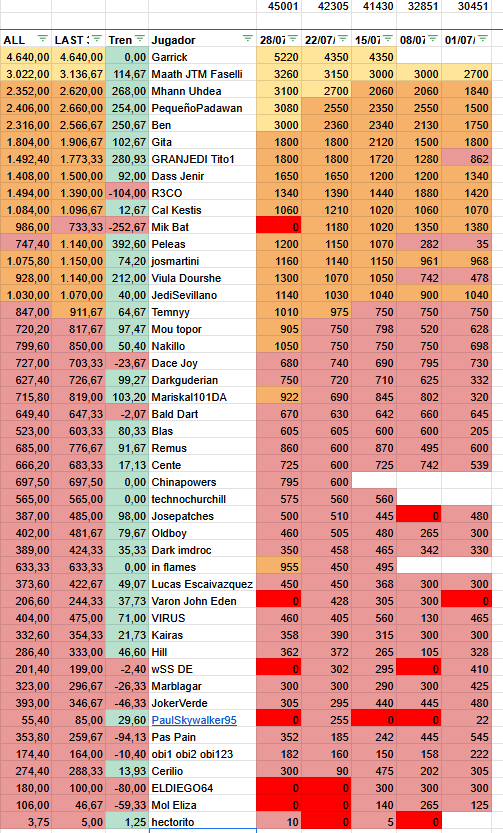
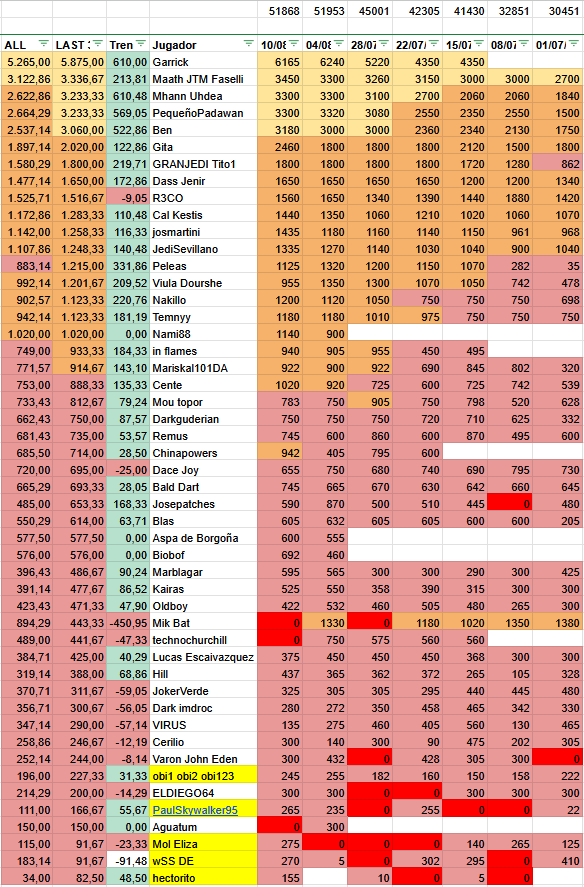
raid y rote - actualización

diff --git a/templo.html b/templo.html
@@ -61,7 +61,7 @@
         </div>
 
         <div id="templo-goals" class="tab-content">
-            <a href="https://swgoh.gg/raids/naboo/naboo/rewards"><img src="img/naboo-reward-box6.png"/></a>
+            <a href="https://swgoh.gg/raids/order66/DIFF01/rewards/"><img src="img/order66-reward-box8.png"/></a>
         </div>
 
         <div id="templo-planning" class="tab-content">
@@ -290,7 +290,7 @@
                 </h3>
                 <div class="squad">
                     <h4>Equipo 1: Gran Moff Tarkin y soldados clon</h4>
-                    <p class="score-expected">Puntos esperados: 1.8M</p>
+                    <p class="score-expected">Puntos esperados: 3.6M</p>
                     <div class="squad-characters-list">
                         <div class="character">
                             <img src="https://game-assets.swgoh.gg/textures/tex.charui_tarkinadmiral.png" alt="Gran Moff Tarkin">
@@ -305,6 +305,19 @@
                                 <img src="https://swgoh.wiki/images/thumb/6/66/Event-Territory_Battle-Rise_of_the_Empire.png/435px-Event-Territory_Battle-Rise_of_the_Empire.png" alt="Alzamiento" data-hover="Pelotón Tatooine">
                             </div>
                         </div>
+                        <div class="character">
+                            <img src="https://game-assets.swgoh.gg/textures/tex.charui_scorch.png" alt="Scorch">
+                            <div class="relic-required">Reliquia 5</div>
+                            <div class="synergy">
+                                <img src="https://game-assets.swgoh.gg/textures/tex.charui_jedimastermacewindu.png" alt="Jedi Master Mace Windu" >
+                            </div>
+                        </div>
+                    </div>
+                </div>
+                <div class="squad">
+                    <h4>Equipo 2: Gran Moff Tarkin y soldados clon</h4>
+                    <p class="score-expected">Puntos esperados: 3.6M</p>
+                    <div class="squad-characters-list">
                         <div class="character">
                             <img src="https://game-assets.swgoh.gg/textures/tex.charui_appo.png" alt="Appo">
                             <div class="relic-required">Reliquia 5</div>
@@ -326,19 +339,53 @@
                                 <img src="https://game-assets.swgoh.gg/textures/tex.charui_jedimastermacewindu.png" alt="Jedi Master Mace Windu" >
                             </div>
                         </div>
-                        <div class="character">
-                            <img src="https://game-assets.swgoh.gg/textures/tex.charui_scorch.png" alt="Scorch">
-                            <div class="relic-required">Reliquia 5</div>
-                            <div class="synergy">
-                                <img src="https://game-assets.swgoh.gg/textures/tex.charui_jedimastermacewindu.png" alt="Jedi Master Mace Windu" >
-                            </div>
-                        </div>
                     </div>
                 </div>
-
                 <div class="squad">
-                    <h4>Equipo 4: Jedi Vanguardia</h4>
-<!--                    <p class="score-expected">Puntos esperados: 1.8M</p>-->
+                    <h4>Jedi Vanguardia Básico</h4>
+                    <p class="score-expected">Puntos esperados: 2.7M</p>
+                    <div class="squad-characters-list">
+                        <div class="character">
+                            <img src="https://game-assets.swgoh.gg/textures/tex.charui_kelleranbeq.png" alt="Kelleran Beq">
+                            <div class="mods">Protección, Velocidad</div>
+                            <div class="relic-required">Reliquia 7</div>
+                            <div class="synergy">
+                                <img src="https://game-assets.swgoh.gg/textures/tex.charui_mandalorbokatan.png" alt="Bo-Katan (Mand'alor)">
+                                <img src="https://swgoh.wiki/images/thumb/6/66/Event-Territory_Battle-Rise_of_the_Empire.png/435px-Event-Territory_Battle-Rise_of_the_Empire.png" alt="Alzamiento" data-hover="Misión Especial (Mandalor)">
+                            </div>
+                        </div>
+                        <div class="character">
+                            <img src="https://game-assets.swgoh.gg/textures/tex.charui_shaakti.png" alt="Shaak Ti">
+                            <div class="relic-required">Reliquia 7</div>
+                            <div class="synergy">
+                                <img src="https://game-assets.swgoh.gg/textures/tex.charui_globiwan.png" alt="Jedi Master Kenobi">
+                            </div>
+                        </div>
+                        <div class="character">
+                            <img src="https://game-assets.swgoh.gg/textures/tex.charui_plokoon.png" alt="Plo Koon">
+                            <div class="mods">Tenacidad</div>
+                            <div class="relic-required">Reliquia 8</div>
+                            <div class="synergy">
+                                <img src="https://game-assets.swgoh.gg/textures/tex.charui_ahsokatanogray.png" alt="Ahsoka Tano">
+                            </div>
+                        </div>
+                        <div class="character">
+                            <img class="pnj-portrait" src="https://game-assets.swgoh.gg/textures/tex.charui_jocastanu_blaster.png" alt="Jocasta Nu">
+                            <div class="relic-required">Reliquia 7</div>
+                        </div>
+                    </div>
+                    <div>
+                        <label>Estrategia: </label>
+                        <ul>
+                            <li>Kelleran asistencia masiva contra Fox: Tiene que tumbarlo</li>
+                            <li>Shaak Ti usa la segunda habilidad sobre Plo Koon para que provoque y obtenga inmunidad al crítico</li>
+                            <li>Plo tiene que resistir el aturdimiento de Appo</li>
+                        </ul>
+                    </div>
+                </div>
+                <div class="squad">
+                    <h4>Equipo 2: Jedi Vanguardia</h4>
+                    <p class="score-expected">Puntos esperados: 1.8M</p>
                     <div class="squad-characters-list">
                         <div class="character">
                             <img src="https://game-assets.swgoh.gg/textures/tex.charui_jedimastermacewindu.png" alt="Jedi Master Mace Windu">
@@ -367,18 +414,6 @@
                             </div>
                         </div>
                     </div>
-<!--                    <div>-->
-<!--                        <label>Estrategia: </label>-->
-<!--                        <ul>-->
-<!--                            <li>EN AUTO</li>-->
-<!--                        </ul>-->
-<!--                    </div>-->
-<!--                    <div>-->
-<!--                        <label>Explicación: </label>-->
-<!--                        <ul>-->
-<!--                            <li>en este nivel el ataque especial del lider reduce en 1% el enfurecido</li>-->
-<!--                        </ul>-->
-<!--                    </div>-->
                 </div>
 
                 <div class="squad">
@@ -404,6 +439,113 @@
         <div id="templo-maath-archive" class="tab-content">
             <section id="maath">
                 <h2>Histórico de Maath</h2>
+                <div>
+                    <h4>10/08/2025 - 3.45M</h4>
+                    <ol>
+                        <li class="priority-item">
+                            <span class="priority-name">1800k</span>
+                            <div class="squad-characters-list">
+                                <div class="priority-pnj">
+                                    <img class="pnj-portrait" src="https://game-assets.swgoh.gg/textures/tex.charui_kelleranbeq.png" alt="Kelleran Beq">
+                                    <div class="relic-required">Reliquia 7</div>
+                                </div>
+                                <div class="priority-pnj">
+                                    <img class="pnj-portrait" src="https://game-assets.swgoh.gg/textures/tex.charui_plokoon.png" alt="Plo Koon">
+                                    <div class="relic-required">Reliquia 7</div>
+                                </div>
+                                <div class="priority-pnj">
+                                    <img class="pnj-portrait" src="https://game-assets.swgoh.gg/textures/tex.charui_shaakti.png" alt="Shaak Ti">
+                                    <div class="relic-required">Reliquia 7</div>
+                                </div>
+                                <div class="priority-pnj">
+                                    <img class="pnj-portrait" src="https://game-assets.swgoh.gg/textures/tex.charui_aaylasecura.png" alt="Aayla Secura">
+                                    <div class="relic-required">Reliquia 7</div>
+                                </div>
+                                <div class="priority-pnj">
+                                    <img class="pnj-portrait" src="https://game-assets.swgoh.gg/textures/tex.charui_barriss_light.png" alt="Barriss Offee">
+                                    <div class="relic-required">Reliquia 7</div>
+                                </div>
+                            </div>
+                            <span class="priority-players">Mucha suerte, 1 combate logrado de 10 intentos, mucho más fácil con Jocasta</span>
+                        </li>
+                        <li class="priority-item">
+                            <span class="priority-name">600k</span>
+                            <div class="squad-characters-list">
+                                <div class="priority-pnj">
+                                    <img class="pnj-portrait" src="https://game-assets.swgoh.gg/textures/tex.charui_tarkinadmiral.png" alt="Gran Moff Tarkin">
+                                    <div class="relic-required">Reliquia 7</div>
+                                </div>
+                                <div class="priority-pnj">
+                                    <img class="pnj-portrait" src="https://game-assets.swgoh.gg/textures/tex.charui_disguisedclonetrooper.png" alt="Disguised Clone Trooper">
+                                    <div class="relic-required">Reliquia 6</div>
+                                </div>
+                            </div>
+                            <span class="priority-players">Mods de Ataque para Moff Tarkin (velocidad, potencia de secundarias)</span>
+                        </li>
+                        <li class="priority-item">
+                            <span class="priority-name">450k</span>
+                            <div class="squad-characters-list">
+                                <div class="priority-pnj">
+                                    <img class="pnj-portrait" src="https://game-assets.swgoh.gg/textures/tex.charui_masterquigon.png" alt="Maestro Qui-Gon">
+                                    <div class="relic-required">Reliquia 7</div>
+                                </div>
+                                <div class="priority-pnj">
+                                    <img class="pnj-portrait" src="https://game-assets.swgoh.gg/textures/tex.charui_jocastanu_blaster.png" alt="Jocasta Nu">
+                                    <div class="relic-required">Reliquia 7</div>
+                                </div>
+                                <div class="priority-pnj">
+                                    <img class="pnj-portrait" src="https://game-assets.swgoh.gg/textures/tex.charui_kitfisto.png" alt="Kit Fisto">
+                                    <div class="relic-required">Reliquia 7</div>
+                                </div>
+                                <div class="priority-pnj">
+                                    <img class="pnj-portrait" src="https://game-assets.swgoh.gg/textures/tex.charui_imagundi.png" alt="Ima-Gun Di">
+                                    <div class="relic-required">Reliquia 5</div>
+                                </div>
+                                <div class="priority-pnj">
+                                    <img class="pnj-portrait" src="https://game-assets.swgoh.gg/textures/tex.charui_luminara.png" alt="Luminara">
+                                    <div class="relic-required">Reliquia 7</div>
+                                </div>
+                            </div>
+                            <span class="priority-players">Mucha suerte, 1 de 10 intentos.</span>
+                        </li>
+                        <li class="priority-item">
+                            <span class="priority-name">300k</span>
+                            <div>
+                                <div class="priority-pnj">
+                                    <img class="pnj-portrait" src="https://game-assets.swgoh.gg/textures/tex.charui_enfys.png" alt="Enfys Next">
+                                    <div class="relic-required">Reliquia 5</div>
+                                </div>
+                            </div>
+                            <span class="priority-players">Mods de ataque con evasión de crítico</span>
+                        </li>
+                        <li class="priority-item">
+                            <span class="priority-name">300k</span>
+                            <div class="squad-characters-list">
+                                <div class="priority-pnj">
+                                    <img class="pnj-portrait" src="https://game-assets.swgoh.gg/textures/tex.charui_omegas3.png" alt="Omega Fugitiva">
+                                    <div class="relic-required">G9</div>
+                                </div>
+                                <div class="priority-pnj">
+                                    <img class="pnj-portrait" src="https://game-assets.swgoh.gg/textures/tex.charui_wreckers3.png" alt="Wrecker Mercenario">
+                                    <div class="relic-required">G8</div>
+                                </div>
+                                <div class="priority-pnj">
+                                    <img class="pnj-portrait" src="https://game-assets.swgoh.gg/textures/tex.charui_hunters3.png" alt="Hunter Mercenario">
+                                    <div class="relic-required">G9</div>
+                                </div>
+                                <div class="priority-pnj">
+                                    <img class="pnj-portrait" src="https://game-assets.swgoh.gg/textures/tex.charui_crosshair_scarred.png" alt="Crosshair">
+                                    <div class="relic-required">G11</div>
+                                </div>
+                                <div class="priority-pnj">
+                                    <img class="pnj-portrait" src="https://game-assets.swgoh.gg/textures/tex.charui_batcher.png" alt="Batcher">
+                                    <div class="relic-required">G9</div>
+                                </div>
+                            </div>
+                            <span class="priority-players"></span>
+                        </li>
+                    </ol>
+                </div>
                 <div>
                     <h4>22/07/2025 - 3.3M</h4>
                     <ol>
